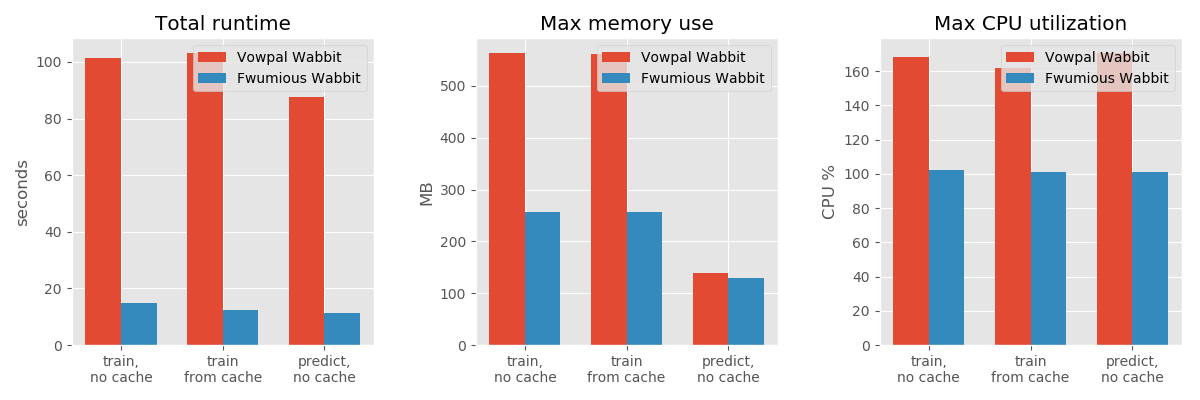
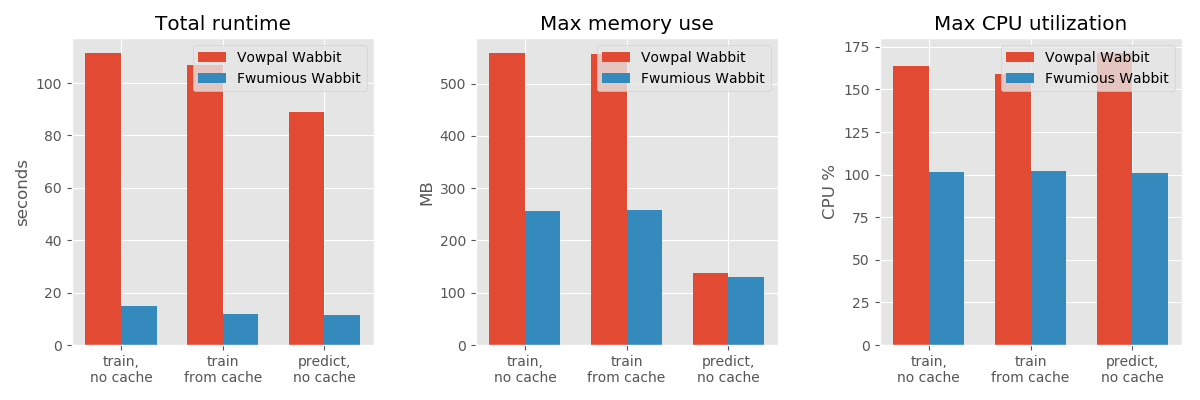
bumping version & benchmark info

diff --git a/src/version.rs b/src/version.rs
@@ -1,1 +1,1 @@
-pub static LATEST: &str = "0.7";
+pub static LATEST: &str = "0.8";

diff --git a/BENCHMARK.md b/BENCHMARK.md
@@ -14,12 +14,12 @@ here are the results for 3 runs for each scenario, taking mean values:
 ![benchmark results](benchmark_results.png)
 Scenario|Runtime (seconds)|Memory (MB)|CPU %
 ----|----:|----:|----:
-vw train, no cache|101.44 | 563 | 168.33
-fw train, no cache|14.72 | 257 | 102.10
-vw train, using cache|103.18 | 561 | 161.77
-fw train, using cache|12.48 | 257 | 101.07
-vw predict, no cache|87.52 | 139 | 170.60
-fw predict, no cache|11.15 | 129 | 100.97
+vw train, no cache|111.51 | 559 | 163.90
+fw train, no cache|15.05 | 257 | 101.83
+vw train, using cache|106.84 | 557 | 159.37
+fw train, using cache|11.86 | 257 | 102.20
+vw predict, no cache|89.08 | 139 | 171.43
+fw predict, no cache|11.41 | 129 | 101.00
 
 ### Model equivalence
 loss values for the test set:
@@ -81,8 +81,8 @@ or, if you just want the numbers with less dependencies run:
 
 ### versions:
 ```
-vowpal wabbit 8.8.1 (git commit: 2f282de17)
-fwumious wabbit 0.7 (git commit: df30e89)
+vowpal wabbit 8.9.0 (git commit: e5dad846b)
+fwumious wabbit 0.8 (git commit: 2baec44)
 ```
 
 ### CPU Info
